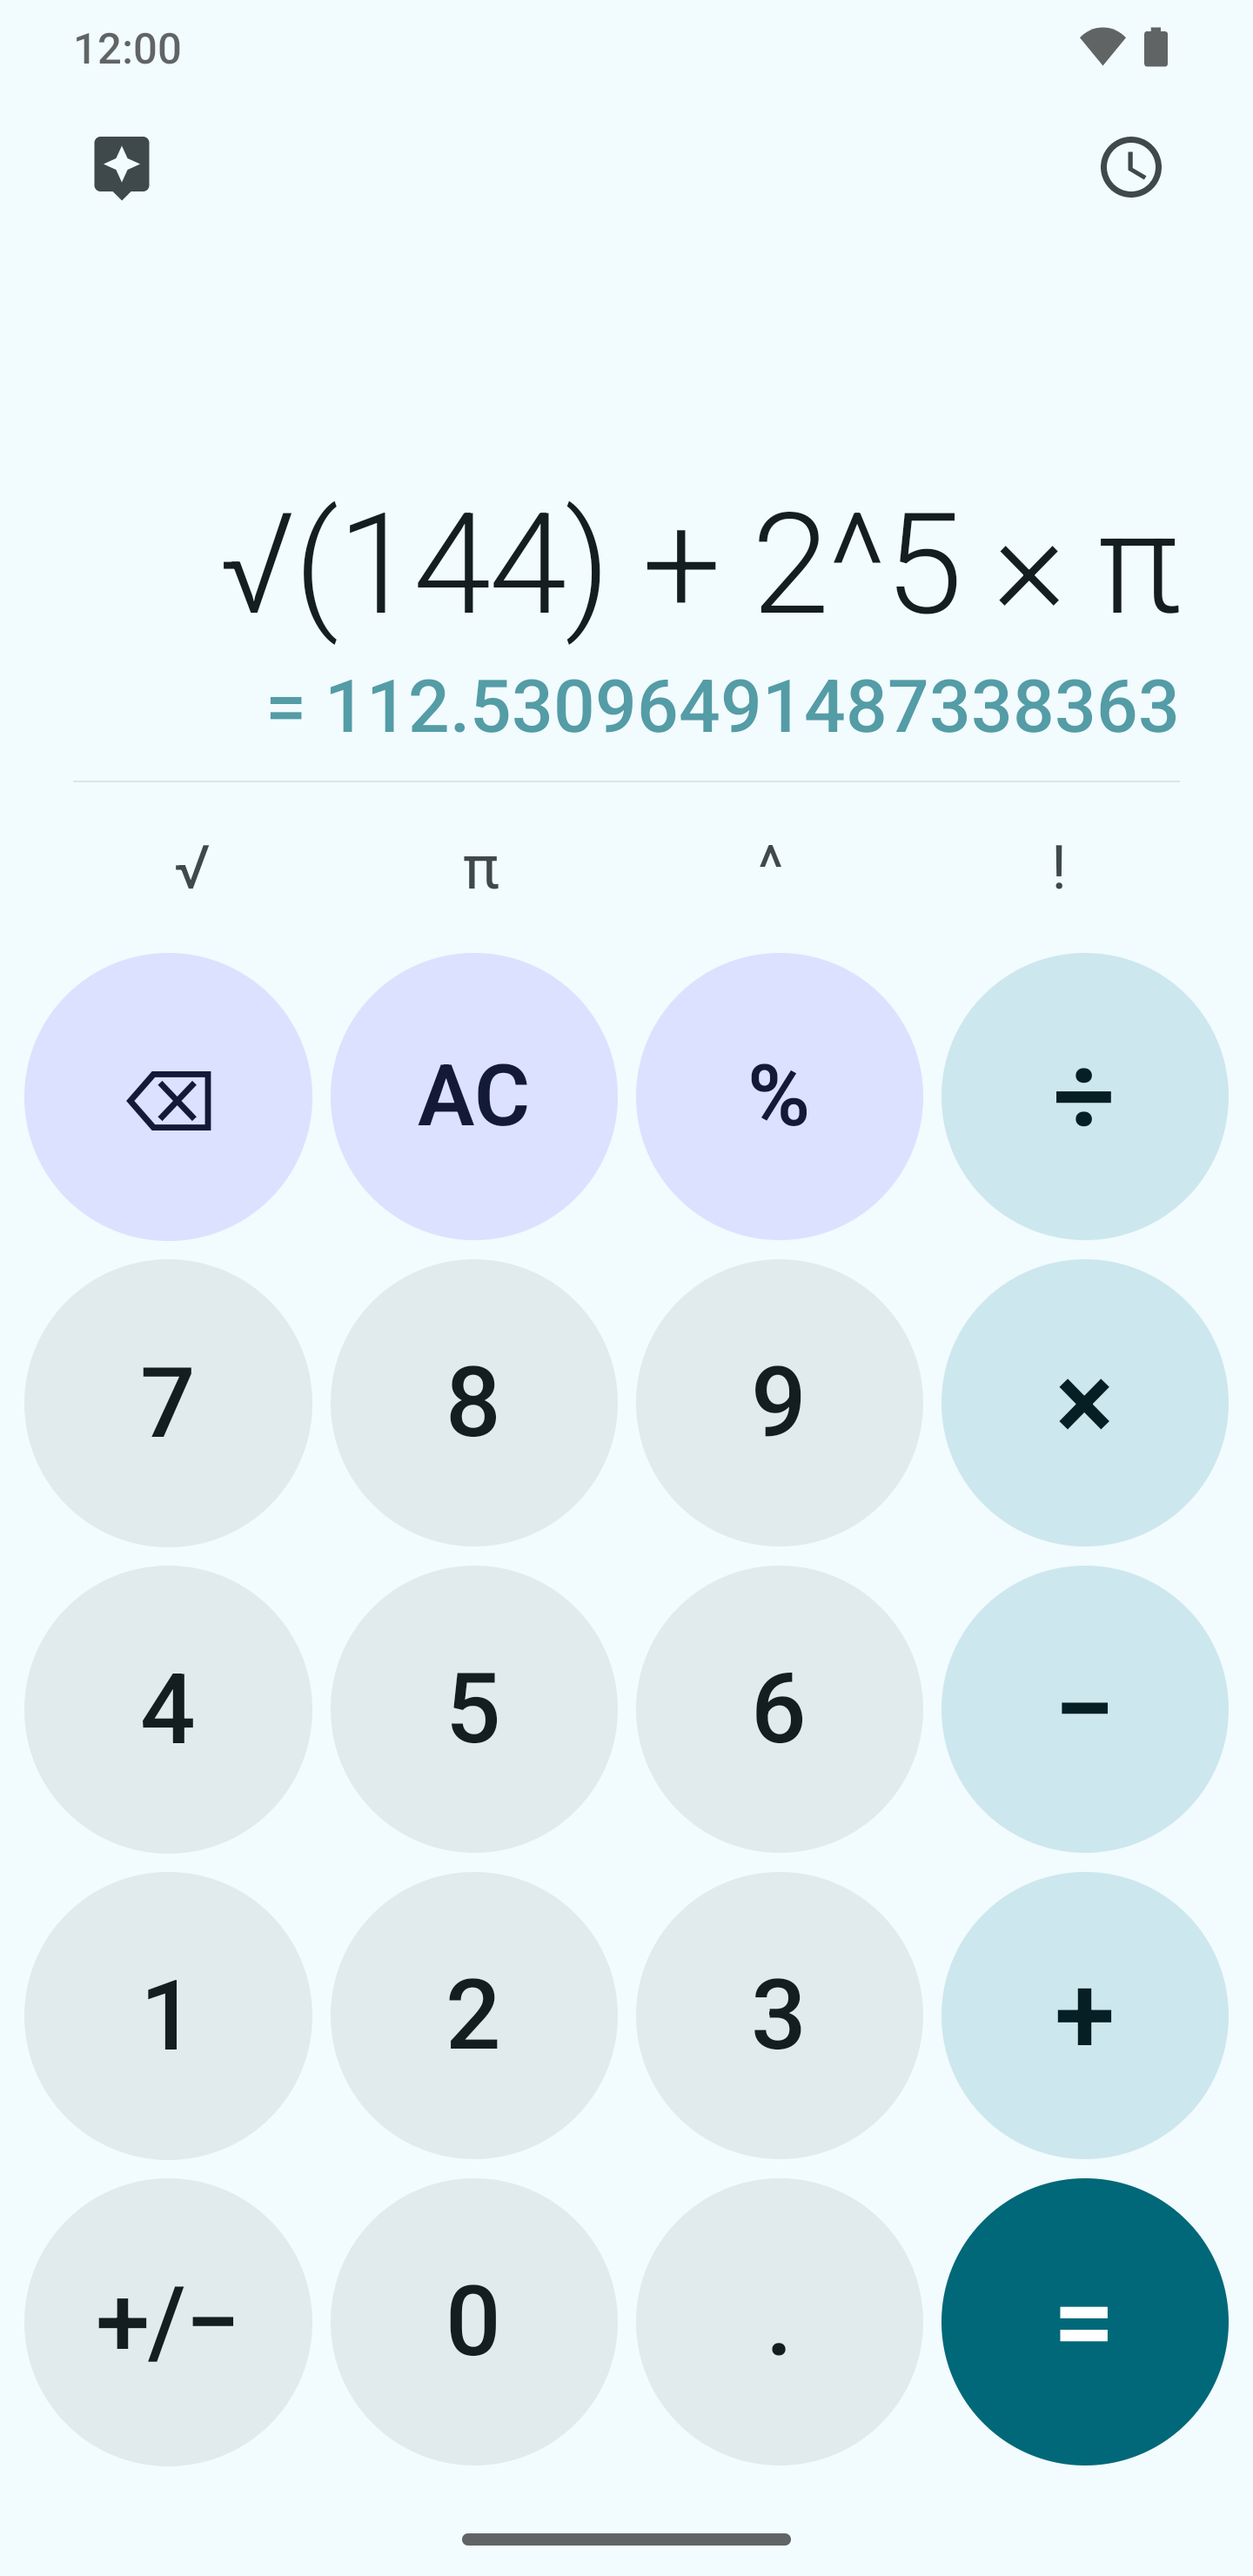
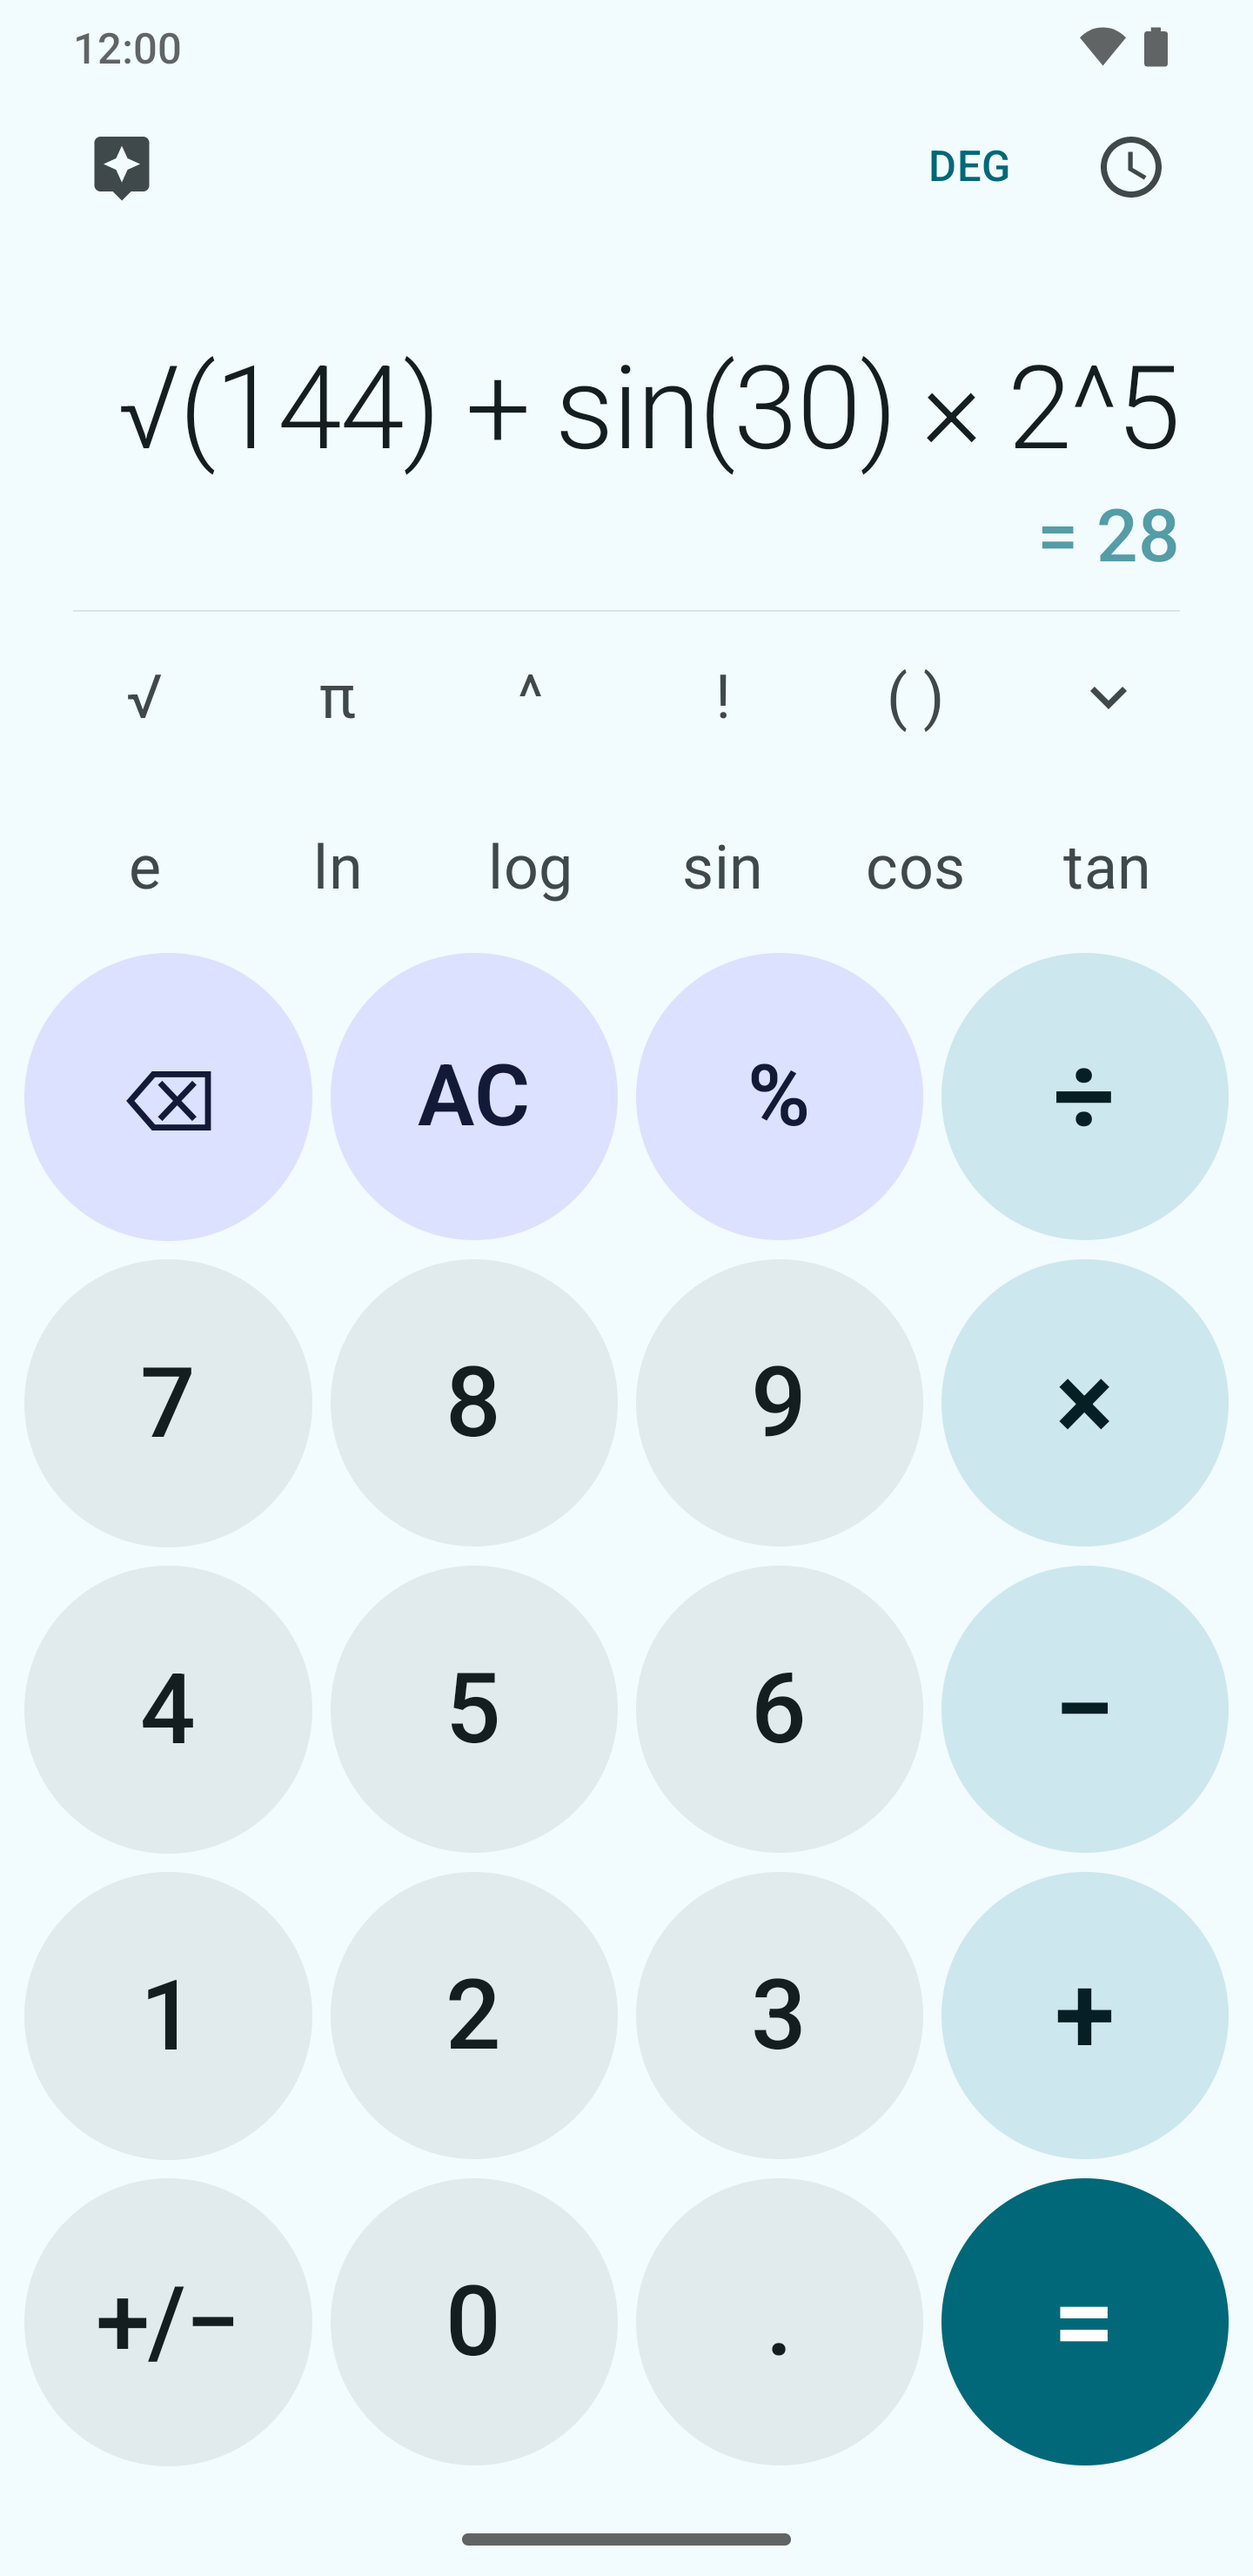
Release 1.8.1: #74 in the changelog, screenshots with the new keys
- changelogs/19.txt adds the new keys (brackets, e, ln, log, sin, cos, tan, x! of fractions); 457 of F-Droid's 500 characters
- Screenshots 1–5 and 9 retaken on the Note 9: the scientific row now has ( ) and ⋯, shot 2 shows the second row (√(144) + sin(30) × 2^5 = 28) with DEG, and the AI history is clean again. Shot 2's subline lists the new functions.

diff --git a/tools/store-screenshots/render.py b/tools/store-screenshots/render.py
@@ -29,7 +29,7 @@ AI = "On-device AI · nothing leaves your phone"
 # Extras: badge = a lock badge above the headline; languages = chips listing LANGUAGES.
 SHOTS = {
     1: ("Calculator, *refined*", "Clean, fast and private. No ads, no tracking.", {}),
-    2: ("Scientific, *simply*", "Roots, powers, π and factorials, with a live result.", {}),
+    2: ("Scientific, *simply*", "Brackets, roots, powers, e, ln, log, sin, cos and tan.", {}),
     3: ("History, *kept*", "Every calculation, one tap away.", {}),
     4: ("Made for *every screen*", "Turn it sideways and your history sits right beside the keys.", {}),
     5: ("Solve it *with AI*", "Snap a photo, write it by hand, or type it.", {"badge": AI}),
